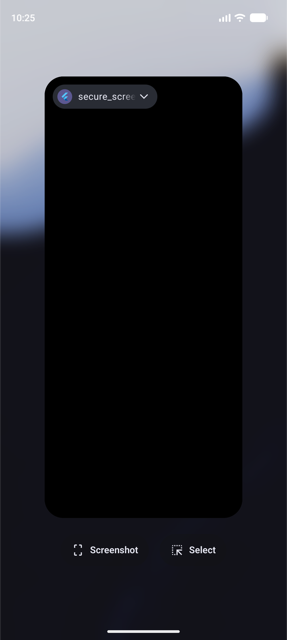
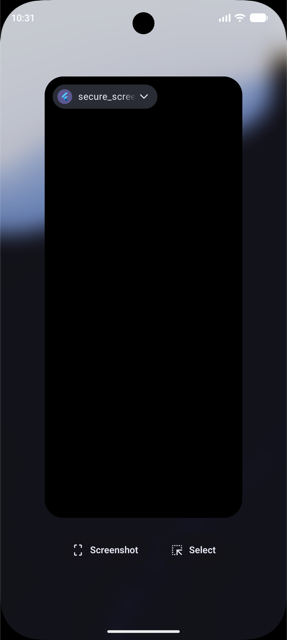
docs(readme): say blank card, not black, for the Android App Switcher
The card is usually black but can show the app's background color (white
with the default light theme). Replace the picture with a real screen
capture (adb screencap blacks out secure content, so it showed black even
when the screen didn't) and note that opening the App Switcher straight
from the app shows the live screen for that moment.

diff --git a/README.md b/README.md
@@ -23,7 +23,7 @@ final isEnabled = await privacy.isCaptureProtectionEnabled();
 ```
 
 > **Note:** with only `enableCaptureProtection` on (no app switcher protection),
-> the OS app switcher / recents preview will show a plain black card while
+> the OS app switcher / recents preview will show a plain blank card while
 > backgrounded. That's the underlying OS mechanism itself — Android's
 > `FLAG_SECURE` and iOS's secure-text-entry trick both blank any capture of
 > the window, including the app switcher snapshot, not just screenshots/
@@ -68,8 +68,8 @@ final isEnabled = await privacy.isAppSwitcherProtectionEnabled();
 Shows a blur, a static image (optionally over a blurred backdrop), or a
 solid color in the iOS App Switcher preview instead of your live UI
 whenever the app is backgrounded (Android always shows a plain
-black card instead, see
-[Android: always a plain black card](#android-always-a-plain-black-card)).
+blank card instead, see
+[Android: always a plain blank card](#android-always-a-plain-blank-card)).
 
 `AppSwitcherProtectionMode.image` and `AppSwitcherProtectionMode.imageBlur`
 require the host app to bundle an image set named `SecureScreenPrivacyImage`
@@ -99,30 +99,34 @@ overlay.
 > Control Center, share sheet), so the overlay will briefly flash in those
 > cases too — this is inherent to the technique, not a bug.
 
-#### Android: always a plain black card
+#### Android: always a plain blank card
 
-On Android the App Switcher always shows a **plain black card** while
-protection is on. `mode`, `blurIntensity`, `color` and
-`imageBackgroundColor` only change the look **on iOS**. Android accepts them,
-so the same Dart code runs on both platforms, but ignores them.
+On Android the App Switcher shows a **plain blank card** while protection is
+on: usually black, sometimes filled with your app's background color (white
+with the default light theme). Your app's content is hidden either way.
+`mode`, `blurIntensity`, `color` and `imageBackgroundColor` only change the
+look **on iOS**. Android accepts them, so the same Dart code runs on both
+platforms, but ignores them.
 
-<img src="doc/images/android_app_switcher.png" width="240" alt="Android App Switcher showing a plain black card for the protected app">
+<img src="doc/images/android_app_switcher.png" width="240" alt="Android App Switcher showing a plain blank card for the protected app">
 
 This is deliberate, not a missing feature or a bug:
 
-- Protection on Android uses `FLAG_SECURE`, and Android blacks out the App
-  Switcher picture of a `FLAG_SECURE` window. A custom color or image would
-  only show if `FLAG_SECURE` were off, which would also let screenshots
-  through.
+- Protection on Android uses `FLAG_SECURE`, and Android leaves the content
+  out of the App Switcher picture of a `FLAG_SECURE` window. A custom color
+  or image would only show if `FLAG_SECURE` were off, which would also let
+  screenshots through.
 - A blur never makes it into the App Switcher picture: Android takes the
   picture before a blur can finish drawing.
 - No app-level technique (a custom cover, a `RenderEffect` blur,
-  `PixelCopy`, or `FLAG_SECURE` itself) hides the live "swipe up and hold"
-  peek with gesture navigation. During that gesture Android shows the app's
-  real screen directly. This is a known Android limit.
+  `PixelCopy`, or `FLAG_SECURE` itself) hides the app's live screen while it
+  is still open: opening the App Switcher straight from the app, or the
+  "swipe up and hold" gesture, shows the real screen for that moment, because
+  Android draws the app's actual window there. Once the app is in the
+  background, its card is blank. This is a known Android limit.
 
 So `FLAG_SECURE` alone already gives the most protection Android allows, and
-the black card is what users see from banking and password apps too. `mode`
+a blank card is what users see from banking and password apps too. `mode`
 is still required, and still matters, on iOS.
 
 ### Per-route protection
